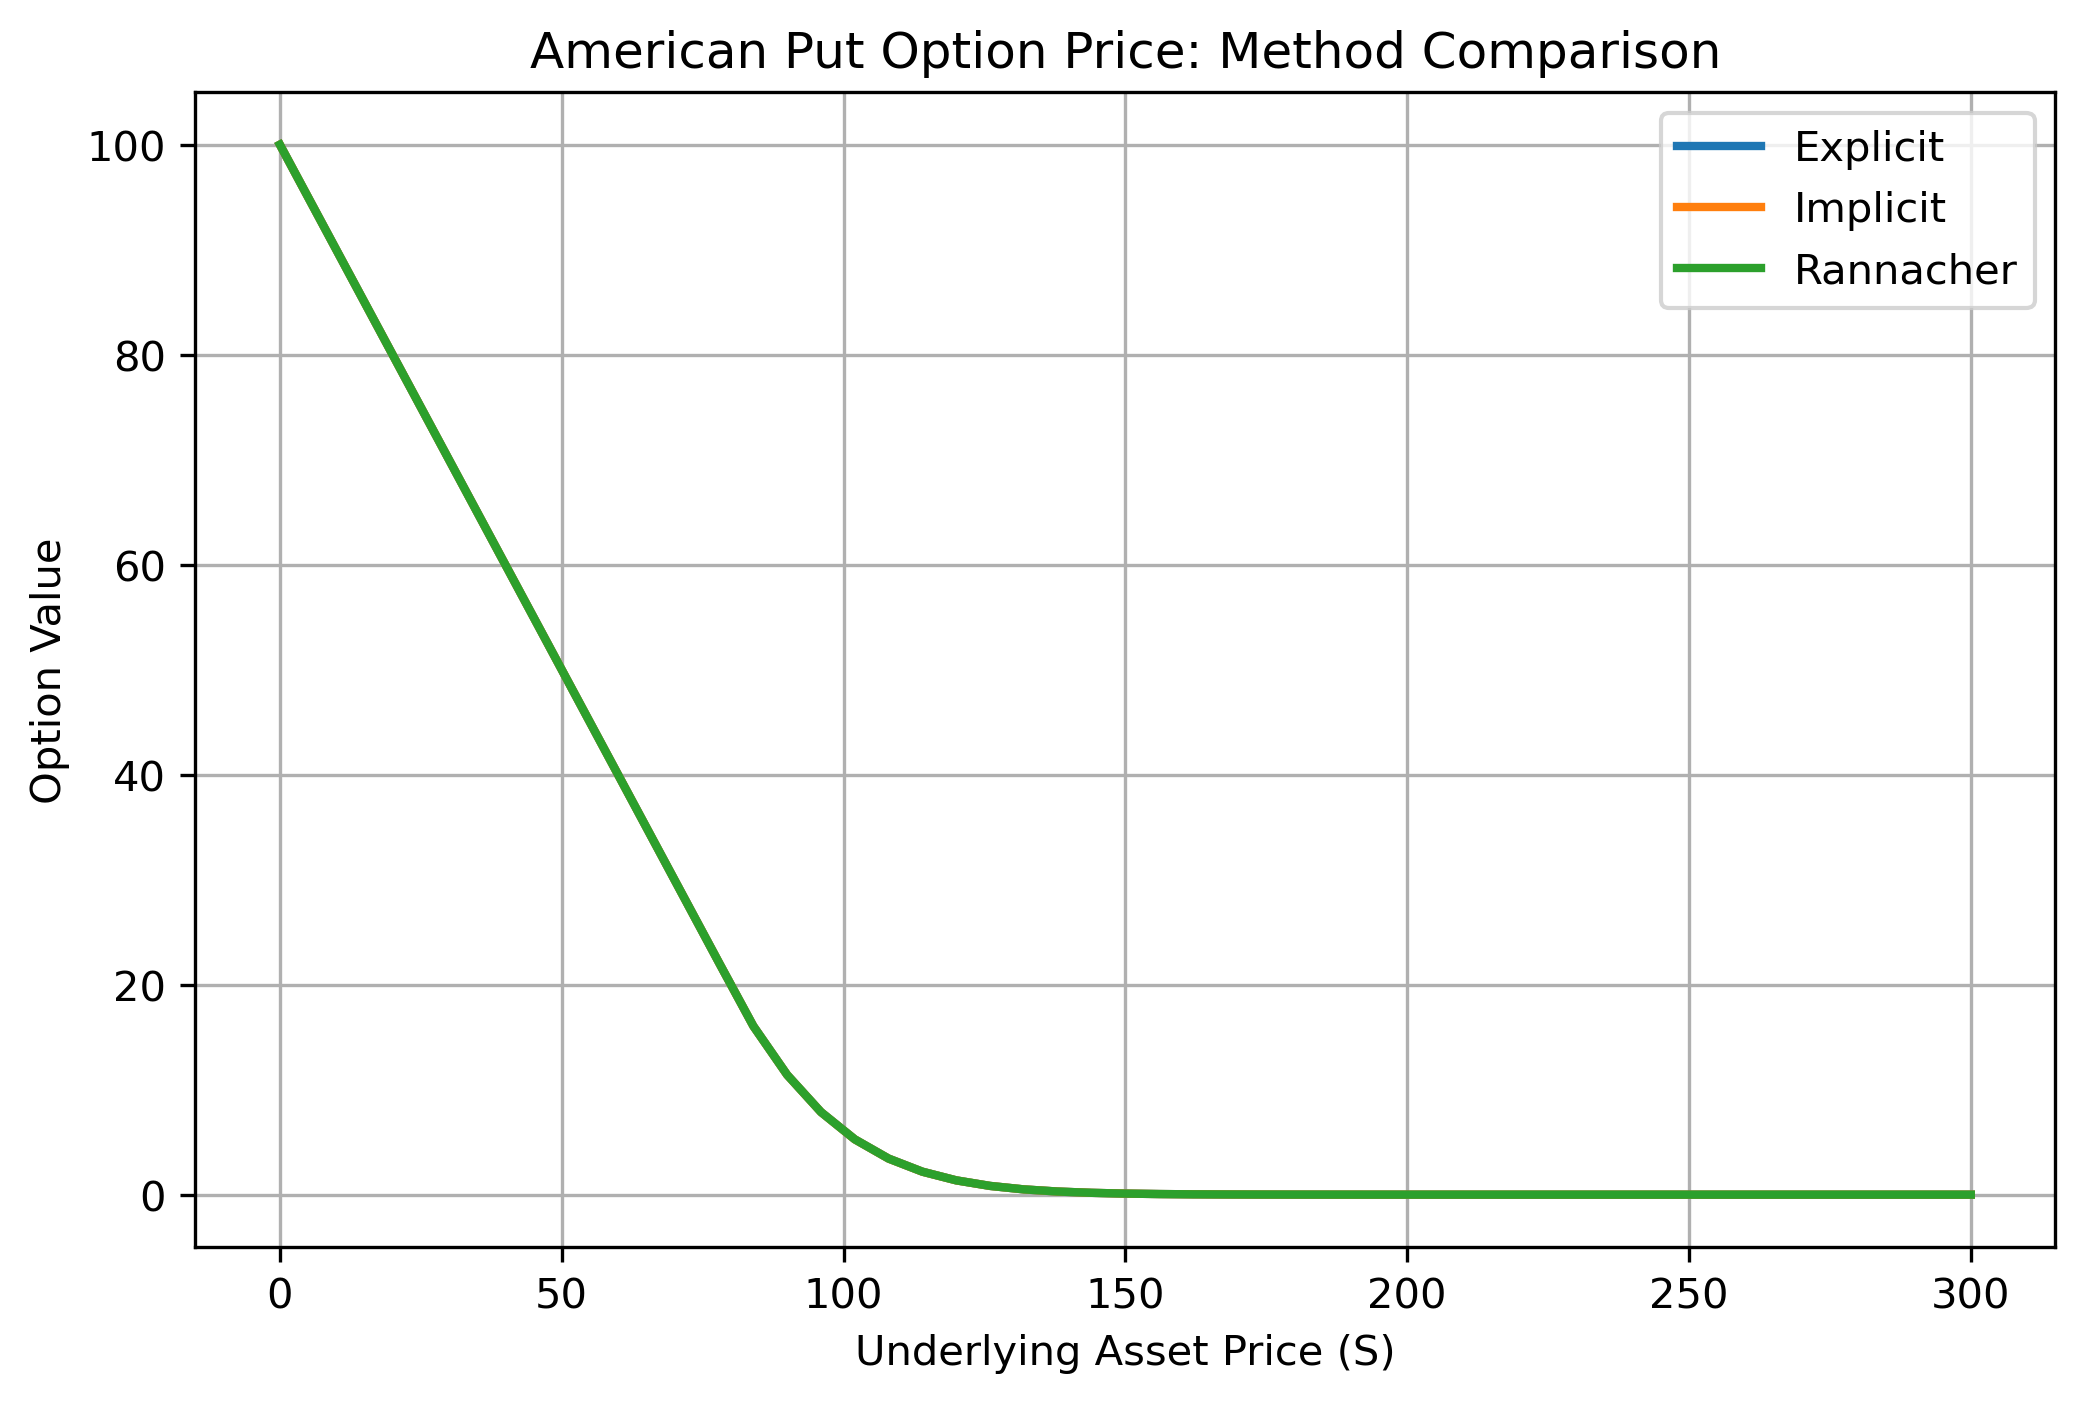
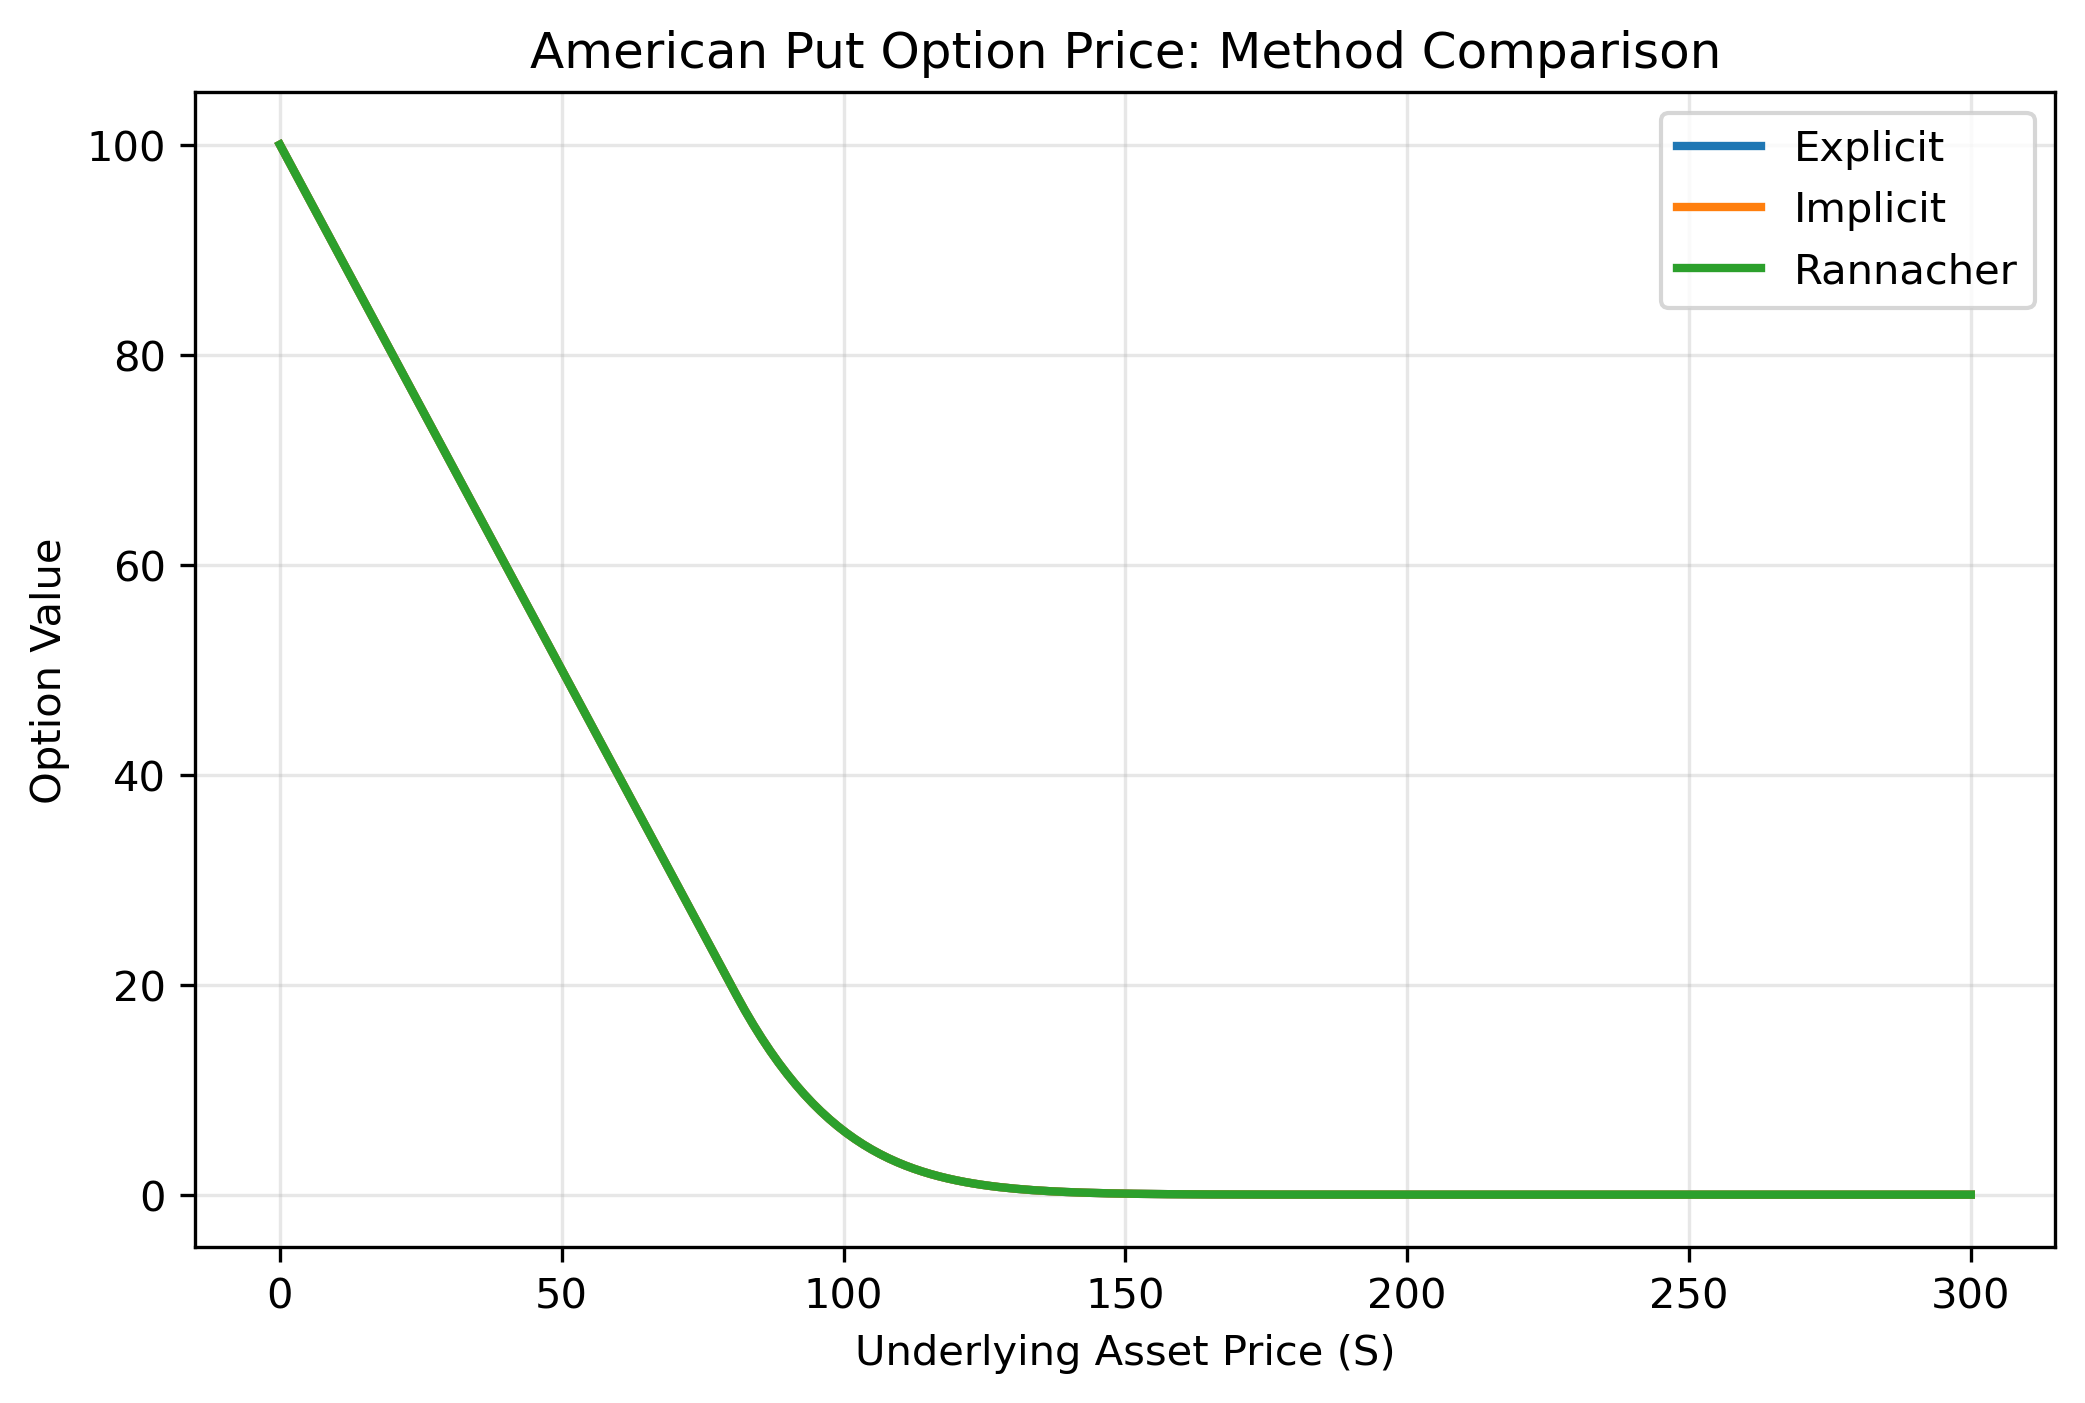
Add final comparison and stability stress tests

diff --git a/experiments/compare.py b/experiments/compare.py
@@ -7,13 +7,67 @@ from src.grid import Grid
 from src.explicit import explicit_american_put
 from src.implicit import implicit_american_put
 from src.rannacher import rannacher_american_put
+from src.metrics import (
+    max_absolute_error,
+    mean_absolute_error,
+    root_mean_squared_error,
+    pointwise_error,
+)
 
-def measure_method(method_name, solver, grid):
+METHODS = [
+    ('Explicit', explicit_american_put),
+    ('Implicit', implicit_american_put),
+    ('Rannacher', rannacher_american_put),
+]
+
+def is_stable(values: np.ndarray, K: float) -> bool:
+    if np.any(np.isnan(values)) or np.any(np.isinf(values)):
+        return False
+    if np.min(values) < -1e-6:
+        return False
+    if np.max(values) > 2 * K:
+        return False
+    return True
+
+def has_oscillations(values: np.ndarray, tolerance: float = 1e-8) -> bool:
+    """
+    Diagnostic for visible/qualitative oscillations
+    """
+    diffs = np.diff(values)
+    return bool(np.any(diffs > tolerance))
+
+def complexity_counts(method_name: str, grid: Grid, damping_steps: int = 2) -> dict:
+    """
+    Records simple quantitative complexity indicators for the thesis table
+    """
+    if method_name == 'Explicit':
+        linear_systems_solved = 0
+        operator_evaluations = grid.M
+    elif method_name == 'Implicit':
+        linear_systems_solved = grid.M
+        operator_evaluations = 0
+    elif method_name == 'Rannacher':
+        linear_systems_solved = grid.M
+        operator_evaluations = max(grid.M - damping_steps, 0)
+    else:
+        linear_systems_solved = np.nan
+        operator_evaluations = np.nan
+
+    return {
+        'grid_points_estimated': grid.N + 1,
+        'time_steps': grid.M,
+        'linear_systems_solved': linear_systems_solved,
+        'operator_evaluations': operator_evaluations,
+    }
+
+def measure_method(method_name, solver, grid, reference_on_grid=None):
     start = time.perf_counter()
     values = solver(grid)
     end = time.perf_counter()
     idx = np.argmin(np.abs(grid.S - grid.K))
-    return {
+    stable = is_stable(values, grid.K)
+    oscillations = has_oscillations(values)
+    result = {
         'method': method_name,
         'N': grid.N,
         'M': grid.M,
@@ -22,37 +76,96 @@ def measure_method(method_name, solver, grid):
         'min_value': np.min(values),
         'max_value': np.max(values),
         'runtime_seconds': end - start,
-        'values': values
+        'stable': stable,
+        'oscillations': 'Yes' if oscillations else 'No',
+        'values': values,
     }
+    result.update(complexity_counts(method_name, grid))
+    if reference_on_grid is not None:
+        errors = pointwise_error(values, reference_on_grid)
+        result.update({
+            'reference_price_near_K': reference_on_grid[idx],
+            'pointwise_error_near_K': errors[idx],
+            'max_absolute_error': max_absolute_error(values, reference_on_grid),
+            'mean_absolute_error': mean_absolute_error(values, reference_on_grid),
+            'rmse': root_mean_squared_error(values, reference_on_grid),
+        })
 
-def run_final_comparison():
+    return result
+
+def run_main_comparison():
     os.makedirs('results/figures', exist_ok=True)
     os.makedirs('results/tables', exist_ok=True)
 
-    grid = Grid(N=50, M=500)
+    grid = Grid(N=200, M=10000)
+    # Fine-grid benchmark ref solution
+    reference_grid = Grid(N=400, M=40000)
+    reference_values = rannacher_american_put(reference_grid)
+    reference_on_grid = np.interp(grid.S, reference_grid.S, reference_values)
 
     results = [
-        measure_method('Explicit', explicit_american_put, grid),
-        measure_method('Implicit', implicit_american_put, grid),
-        measure_method('Rannacher', rannacher_american_put, grid)
+        measure_method(method_name, solver, grid, reference_on_grid)
+        for method_name, solver in METHODS
     ]
 
-    table = pd.DataFrame([
-        {key: value for key, value in result.items() if key != 'values'}
+    quantitative_columns = [
+        'method',
+        'N',
+        'M',
+        'dt',
+        'price_near_K',
+        'reference_price_near_K',
+        'pointwise_error_near_K',
+        'max_absolute_error',
+        'mean_absolute_error',
+        'rmse',
+        'runtime_seconds',
+        'grid_points_estimated',
+        'time_steps',
+        'linear_systems_solved',
+        'operator_evaluations',
+        'stable',
+    ]
+
+    qualitative_columns = [
+        'method',
+        'oscillations',
+        'stable',
+    ]
+
+    quantitative_table = pd.DataFrame([
+        {key: result[key] for key in quantitative_columns}
         for result in results
     ])
-    table.to_csv('results/tables/final_method_comparison.csv', index=False)
-    print(table)
 
-    # plotting all schemes
+    qualitative_table = pd.DataFrame([
+        {key: result[key] for key in qualitative_columns}
+        for result in results
+    ])
+
+    quantitative_table.to_csv(
+        'results/tables/final_method_comparison_quantitative.csv',
+        index=False,
+    )
+    qualitative_table.to_csv(
+        'results/tables/final_method_comparison_qualitative.csv',
+        index=False,
+    )
+
+    print('\nQuantitative final comparison:')
+    print(quantitative_table)
+
+    print('\nQualitative final comparison:')
+    print(qualitative_table)
+
+    # Full price plot
     plt.figure(figsize=(8, 5))
-
     for result in results:
         plt.plot(
             grid.S,
             result['values'],
             linewidth=2,
-            label=result['method']
+            label=result['method'],
         )
 
     plt.xlabel('Underlying Asset Price (S)')
@@ -63,33 +176,104 @@ def run_final_comparison():
     plt.savefig(
         'results/figures/final_method_comparison.png',
         dpi=300,
-        bbox_inches='tight'
+        bbox_inches='tight',
     )
-    plt.show()
+    plt.close()
 
-    # plot zoom around strike
+    # Zoom around strike
     plt.figure(figsize=(8, 5))
-
     mask = (grid.S >= 80) & (grid.S <= 120)
-
     for result in results:
         plt.plot(
             grid.S[mask],
             result['values'][mask],
             linewidth=2,
-            label=result['method']
+            label=result['method'],
         )
     plt.xlabel('Underlying Asset Price (S)')
     plt.ylabel('Option Value')
     plt.title('American Put Option Price: Zoom Around Strike')
-    plt.grid(True)
+    plt.grid(alpha=0.3)
     plt.legend()
     plt.savefig(
         'results/figures/final_method_comparison_zoom.png',
         dpi=300,
-        bbox_inches='tight'
+        bbox_inches='tight',
     )
-    plt.show()
+    plt.close()
+
+def run_temporal_order_experiment():
+    """
+    Estimates recovered temporal order by fixing N and comparing against
+    a very fine time-grid reference
+    """
+    os.makedirs('results/tables', exist_ok=True)
+    N = 200
+    reference_grid = Grid(N=N, M=80000)
+    reference_values = rannacher_american_put(reference_grid)
+    M_values = [5000, 10000, 20000, 40000]
+    rows = []
+    for method_name, solver in METHODS:
+        previous_error = None
+        previous_M = None
+
+        for M in M_values:
+            grid = Grid(N=N, M=M)
+            values = solver(grid)
+            # Same N, so no interpolation needed
+            error = root_mean_squared_error(values, reference_values)
+            if previous_error is not None and error > 0:
+                recovered_order = np.log(previous_error / error) / np.log(2)
+            else:
+                recovered_order = np.nan
+            rows.append({
+                'method': method_name,
+                'N': N,
+                'M': M,
+                'dt': grid.dt,
+                'rmse_vs_fine_time_reference': error,
+                'previous_M': previous_M,
+                'recovered_temporal_order': recovered_order,
+                'stable': is_stable(values, grid.K),
+                'oscillations': 'Yes' if has_oscillations(values) else 'No',
+            })
+
+            previous_error = error
+            previous_M = M
+
+    order_table = pd.DataFrame(rows)
+    order_table.to_csv(
+        'results/tables/temporal_order_estimates.csv',
+        index=False,
+    )
+    print('\nRecovered temporal order estimates:')
+    print(order_table)
+
+def run_coarse_grid_diagnostic():
+    """
+    Coarse-grid diagnostic
+    """
+    os.makedirs('results/tables', exist_ok=True)
+    grid = Grid(N=50, M=500)
+    results = [
+        measure_method(method_name, solver, grid)
+        for method_name, solver in METHODS
+    ]
+
+    table = pd.DataFrame([
+        {key: value for key, value in result.items() if key != 'values'}
+        for result in results
+    ])
+
+    table.to_csv(
+        'results/tables/coarse_grid_diagnostic.csv',
+        index=False,
+    )
+
+    print('\nCoarse-grid diagnostic:')
+    print(table)
 
 if __name__ == '__main__':
-    run_final_comparison()
+    run_main_comparison()
+    run_temporal_order_experiment()
+    run_coarse_grid_diagnostic()

diff --git a/experiments/stability_compare.py b/experiments/stability_compare.py
@@ -1,0 +1,97 @@
+import os
+import time
+import matplotlib.pyplot as plt
+import numpy as np
+import pandas as pd
+from src.grid import Grid
+from src.explicit import explicit_american_put
+from src.implicit import implicit_american_put
+from src.rannacher import rannacher_american_put
+
+METHODS = [
+    ('Explicit', explicit_american_put),
+    ('Implicit', implicit_american_put),
+    ('Rannacher', rannacher_american_put),
+]
+
+def is_stable(values: np.ndarray, K: float) -> bool:
+    if np.any(np.isnan(values)) or np.any(np.isinf(values)):
+        return False
+    if np.min(values) < -1e-6:
+        return False
+    if np.max(values) > 2 * K:
+        return False
+    return True
+
+def run_stress_comparison():
+    os.makedirs('results/figures', exist_ok=True)
+    os.makedirs('results/tables', exist_ok=True)
+    # Deliberately coarse temporal grid for stability stress test
+    grid = Grid(N=200, M=1000)
+
+    rows = []
+    solutions = {}
+
+    for method_name, solver in METHODS:
+        start = time.perf_counter()
+        values = solver(grid)
+        end = time.perf_counter()
+
+        idx = np.argmin(np.abs(grid.S - grid.K))
+        stable = is_stable(values, grid.K)
+
+        rows.append({
+            'method': method_name,
+            'N': grid.N,
+            'M': grid.M,
+            'dt': grid.dt,
+            'price_near_K': values[idx],
+            'min_value': np.min(values),
+            'max_value': np.max(values),
+            'runtime_seconds': end - start,
+            'stable': stable,
+        })
+
+        solutions[method_name] = values
+
+    table = pd.DataFrame(rows)
+    table.to_csv('results/tables/stability_stress_comparison.csv', index=False)
+    print(table)
+
+    # Plot only stable methods on normal scale
+    plt.figure(figsize=(8, 5))
+    for method_name, values in solutions.items():
+        if is_stable(values, grid.K):
+            plt.plot(grid.S, values, linewidth=2, label=method_name)
+
+    plt.xlabel('Underlying Asset Price (S)')
+    plt.ylabel('Option Value')
+    plt.title('Stability Stress Test: Stable Schemes Only')
+    plt.grid(alpha=0.3)
+    plt.legend()
+    plt.savefig(
+        'results/figures/stability_stress_stable_methods.png',
+        dpi=300,
+        bbox_inches='tight',
+    )
+    plt.close()
+
+    plt.figure(figsize=(8, 5))
+    for method_name, values in solutions.items():
+        clipped_values = np.clip(values, 0, 2 * grid.K)
+        plt.plot(grid.S, clipped_values, linewidth=2, label=method_name)
+
+    plt.xlabel('Underlying Asset Price (S)')
+    plt.ylabel('Option Value, clipped to [0, 2K]')
+    plt.title('Stability Stress Test: Clipped Values')
+    plt.grid(alpha=0.3)
+    plt.legend()
+    plt.savefig(
+        'results/figures/stability_stress_clipped.png',
+        dpi=300,
+        bbox_inches='tight',
+    )
+    plt.close()
+
+if __name__ == '__main__':
+    run_stress_comparison()